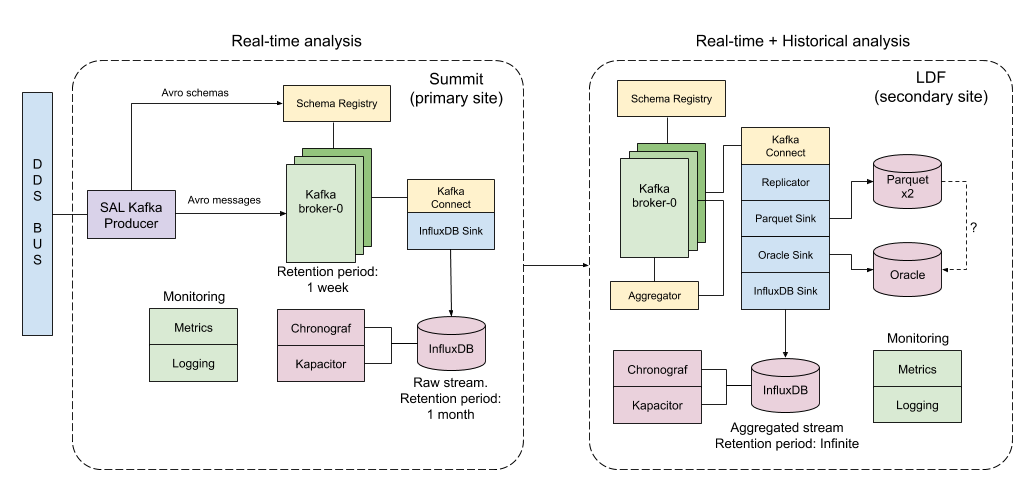
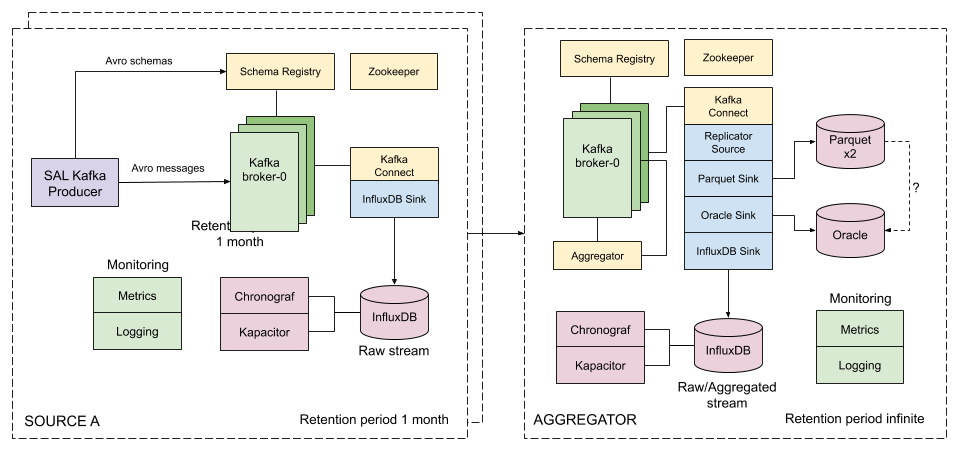
Add concept of source and aggregator EFDs
- New section on how to configure the replicator source connector

diff --git a/index.rst b/index.rst
@@ -48,45 +48,46 @@
 
    **This technote is not yet published.**
 
-   Describe the EFD data flow, retention policies, etc
+   Describe the EFD architecture, data replication, retention policies, etc
 
 Introduction
 ============
 :dmtn:`082` :cite:`DMTN-082` presents a proposal to enable real-time analysis of the EFD data in the LSST Science Platform (LSP). :sqr:`029` :cite:`SQR-029` describes a prototype implementation of the EFD based on the `Confluent Kafka Platform`_  and the `InfluxData stack`_ and reports results of live tests with the LSST T&S `Service Abstraction Layer`_ (SAL) including latency characterization and performance evaluation with high-frequency telemetry. :sqr:`031` :cite:`SQR-031` describes the EFD Kubernetes-based deployment using Kubes (k3s), a lightweight Kubernetes, that allowed us to exercise the deployment and operation of the EFD at the Auxiliary Telescope (AT) test stand in Tucson and at the Summit in Chile while we implement the final on-premise deployment platform.
 
-In this technote, we describe new components added to the EFD architecture, data replication from the Summit to the LSST Data Facility (LDF), data storage options for long-term analyses of the EFD data in the LSP, and the EFD data retention policy.
+In this technote, we describe new components added to the EFD architecture. In particular, the concept of source EFD for instances deployed at the Summit and Test stands that collect data from the hardware, and aggregator EFD that aggregate data from the source EFDs and is deployed at the LDF. The aggregator is meant to be a single place where scientists connect to perform their analysis. We also discuss data replication from the source EFD to the aggregator EFD, retention policies, and data storage options for long-term analyses.
 
 
 .. figure:: /_static/efd_architecture.png
-   :name: EFD architecture with data replication from the Summit to the LDF
+   :name: Architecture for the source and aggregator EFDs.
    :target: _static/efd_architecture.png
 
-   EFD components at the Summit and LDF.
-
+   Architecture for the source and aggregator EFDs.
 
 The SAL Kafka producer
 ======================
 
-The `SAL Kafka`_ producer runs at the Summit and forward DDS messages from one or more SAL components to the Kafka brokers.  For each DDS topic, SAL Kafka introspects the OpenSplice IDL, creates the Avro schema and upload it to the Kafka Schema registry dynamically. The Kafka brokers cache the Avro serialized messages, and consumers use the Avro schemas created by SAL Kafka to deserialize the messages and write them to the different destinations.
+The `SAL Kafka`_ producer runs only on source EFDs (Summit and test stands) and forward DDS messages from one or more SAL components to Kafka.  For each DDS topic, SAL Kafka introspects the OpenSplice IDL, creates the Avro schema and uploads it to the source Schema registry dynamically. The Kafka brokers cache the Avro serialized messages, and consumers use the Avro schemas created by SAL Kafka to deserialize them.
 
-SAL Kafka was an important addition to the EFD architecture, it decoupled the EFD from the SAL XML schemas and introduced Avro as the interface between the DDS middleware and Kafka.
+SAL Kafka was an important addition to the EFD architecture, it decouples the EFD from the SAL XML schemas and introduces Avro as the interface between the DDS middleware and Kafka.
 
 The Kafka Connect manager
 =========================
 
-Another addition to the EFD architecture was the `Kafka Connect manager`_. The Kafka Connect manager is the component responsible for managing the Kafka Connect REST interface. It is used to deploy the different connectors in the EFD and can automatically update the connector configuration when new topics are created in the Kafka broker.
+Another addition to the EFD architecture is the `Kafka Connect manager`_. The Kafka Connect manager is the component responsible for managing the Kafka Connect REST interface. It is used to deploy the different connectors to the EFD. For connectors that are not dynamic like the InfluxDB Sink and the JDBc Sink connectors, the Kafka Connect manager can automatically update the connector configuration when new topics are created in Kafka.
 
 
 Data replication and fault tolerance
 ====================================
 
-The EFD uses Kafka to replicate data from the Summit (primary site) to the LDF (secondary site). The `Confluent Replicator`_ connector is the component responsible for that. In the EFD setup, the Replicator connector runs in one direction copying data from the primary site to the secondary site.
+The EFD uses Kafka to replicate data from the source EFDs (primary sites) to the aggregator EFD (secondary site). The `Kafka Connect Replicator source connector`_ is the component responsible for that. In the EFD setup, the Replicator source connector runs in one direction pulling topics from the primary sites to the secondary site.
 
-New topics in the Kafka brokers at the Summit are automatically detected and replicated to the Kafka brokers at the LDF. As throughput increases, the Replicator automatically scales to accommodate the increased load. The Replicator also synchronizes the Schema registry across the two sites, which further protects the EFD against data loss.
+New topics and schemas in the source EFDs are automatically detected and replicated to aggregator EFD. As throughput increases, the Replicator automatically scales to accommodate the increased load. By replicating topics and schemas across primary and secondary sites further protects the EFD against data loss.
 
-Note that in the present setup we have an InfluxDB consumer that reads data from the Kafka cluster at the primary site, and the Aggregator, InfluxDB, Oracle and Parquet consumers that read data from the Kafka cluster at the secondary site. Within the Kafka cluster we have fault tolerance by replicating the Kafka topics across the brokers. That's done by SAL Kafka producer creating topics with a replication factor of 3 by default. If one of the InfluxDB instances die, we still can connect to the other InfluxDB instance for real-time analysis of the EFD data. However, note that there's no failover mechanism for a consumer in the primary (secondary) site to read data from the secondary (primary) site. Similarly, the SAL Kafka producer writes data to just the primary site.
+In the present setup, consumers at the source EFD only read data from the source EFD and consumers at the aggregator EFD only read data from the aggregator EFD with the exception of the Replicator consumer.  Within the Kafka cluster we have fault tolerance by replicating the Kafka topics across three brokers (default set up). That's done by the SAL Kafka producer creating topics with a replication factor of three.
 
-In summary, the data replication enables long-term storage of the EFD data at the LDF and also provides a live backup of the EFD data in the Summit instance (see :ref:`retention-policy`).
+If the InfluxDB instance in one of the primary sites die, the InfluxDB instance on the secondary site can be used to access the data. However, there's no failover mechanism that automatically connects a consumer to the secondary site.
+
+In summary, the aggregator EFD provides long-term storage and a live backup of the EFD data (see :ref:`retention-policy`).
 
 
 .. _retention-policy:
@@ -94,11 +95,11 @@ In summary, the data replication enables long-term storage of the EFD data at th
 Downsampling and data retention
 ===============================
 
-The EFD writes thousands of topics with frequencies ranging from 1Hz to 100Hz. Querying the raw EFD data on large time windows can be quite painful, especially at the Summit with limited computing resources.
+The EFD writes thousands of topics with frequencies ranging from 1Hz to 100Hz. Querying the raw EFD data on large time windows can be quite painful, especially at the primary sites with limited computing resources.
 
-A natural solution is to downsample the raw data and store one or two versions of low-resolution data for extended periods. In InfluxDB, it is possible to configure multiple retention policies. For instance, at the Summit we can have 1 week of raw data, 1 month of an intermediate resolution version, and 1 year of a low resolution version. The retention policy is such that data older than the retention period is automatically deleted. The result is a moving time window on the most recent data in each case. Downsampling is efficiently done inside InfluxDB using Flux tasks that can be scheduled during daytime.  Similar retention policies at the LDF can be configure so that we can query the data efficiently over extended periods in InlfuxDB.
+A natural solution is to downsample the raw data and store one or two versions of low-resolution data for extended periods. In InfluxDB, it is possible to configure multiple retention policies. For instance, at the primary sites we can have 1 week of raw data, 1 month of an intermediate resolution version of the data, and 1 year of a low resolution version of the data. The retention policy is such that data older than the retention period is automatically deleted. The result is a moving time window on the most recent data in each case. Downsampling is efficiently done inside InfluxDB using Flux tasks that can be scheduled during daytime if necessary.  Similar retention policies at the LDF can be configure so that we can query the data efficiently over extended periods.
 
-Real-time analysis of the EFD data might include statistical models for anomaly detection and forecasting. For example, InfluxDB implements a `built-in multiplicative Holt-Winter's <https://www.influxdata.com/blog/how-to-use-influxdbs-holt-winters-function-for-predictions/>`_ function to generate predictions on time series data. At the Summit, if we store 1 month of raw EFD data, that's roughly 1% of the data collected over the 10-years survey. If that's sufficient to build a statistical model or not depends on the long term trends and seasonality of the time-series we are analyzing. An interesting possibility of the present EFD architecture is to build the statistical models at the LDF where we have the raw data stored for longer periods and apply the models at the Summit when configuring alerts.
+Real-time analysis of the EFD data might include statistical models for anomaly detection and forecasting. For example, InfluxDB implements a `built-in multiplicative Holt-Winter's <https://www.influxdata.com/blog/how-to-use-influxdbs-holt-winters-function-for-predictions/>`_ function to generate predictions on time series data. At the Summit, if we store 1 week of raw EFD data, that's roughly 0.2% of the data collected over the 10-years survey. If that's sufficient to build a statistical model or not depends on the long term trends and seasonality of the time-series we are analyzing. An interesting possibility of the present EFD architecture is to build the statistical models at the aggregator EFD where we have the raw data stored for longer periods and apply the models at the primary sites when configuring alerts.
 
 .. _aggregator:
 
@@ -109,9 +110,9 @@ As proposed in :dmtn:`082` :cite:`DMTN-082`, the LSP users are generally interes
 
 In addition, the aggregator should resample the telemetry topics in a regular time grid to make it easier to correlate them.
 
-The aggregator stream-processor produces a new set of aggregated telemetry topics in Kafka that can be consumed and stored in Parquet, Oracle and InfluxDB. That gives the user multiple options to combine the aggregated telemetry with the exposure table which resides primarily in the Oracle database:
+The aggregator stream-processor produces a new set of aggregated telemetry topics in Kafka that can be consumed and stored in Parquet, Oracle and InfluxDB. That gives the user multiple options to combine the aggregated telemetry with the exposure table which resides in the Oracle database:
 
-* inside the LSP notebook environment using Pandas dataframes after querying the exposure table and reading the telemetry data from one of the sources above;
+* inside the LSP notebook environment using Pandas data-frames after querying the exposure table and reading the telemetry data from one of the sources above;
 
 * inside the Oracle database joining the exposure and the telemetry tables using SQL;
 
@@ -125,11 +126,11 @@ An interesting option for implementing the Aggregator is `Faust`_, a Python asyn
 Options for long-term storage at the LDF
 ========================================
 
-The LSP benefits from accessing data stored in Parquet format, which is compatible with  `Dask`_ used to scale computations across multiple machines. The Confluent Kafka connect storage-cloud connector recently added `support to Parquet on S3 <https://github.com/confluentinc/kafka-connect-storage-cloud/pull/241>`_. From the connector configuration, it is also possible to partition data based on time. We might want to store both the raw EFD data and the aggregated EFD data in Parquet files, which also serves as a cold backup of the EFD data.
+The LSP benefits from accessing data stored in Parquet format, which is compatible with  `Dask`_ used to scale computations across multiple worker nodes. The Confluent Kafka connect storage-cloud connector recently added `support to Parquet on S3 <https://github.com/confluentinc/kafka-connect-storage-cloud/pull/241>`_. From the connector configuration, it is also possible to partition data based on time. We might want to store both the raw EFD data and the aggregated EFD data in Parquet files, which also serves as a cold backup of the EFD data.
 
-We plan on storing the aggregated EFD data in Oracle, which is convenient to make joins with the exposure table as discussed in the :ref:`aggregator` session. The `Kafka Connect JDBC Connector`_ supports Oracle databases through the JDBC driver for Oracle. The JDBC Sink connector automatically creates the destination tables if the ``auto.create`` configuration option is enabled, and can also `perform limited auto-evolution <https://docs.confluent.io/current/connect/kafka-connect-jdbc/sink-connector/index.html#auto-creation-and-auto-evoluton>`_ on the destination tables if the ``auto.evolve`` configuration option is enabled.  An alternative, is to load data to the Oracle database from Parquet files in batch, but then we lose the convenience of creating and evolving the database schema offered by JDBC Sink connector.
+We plan on storing the aggregated EFD data in Oracle, which is convenient to make joins with the exposure table as discussed in the :ref:`aggregator` session. The `Kafka Connect JDBC connector`_ supports Oracle databases through the JDBC driver for Oracle. The JDBC Sink connector automatically creates the destination tables if the ``auto.create`` configuration option is enabled, and can also `perform limited auto-evolution <https://docs.confluent.io/current/connect/kafka-connect-jdbc/sink-connector/index.html#auto-creation-and-auto-evoluton>`_ on the destination tables if the ``auto.evolve`` configuration option is enabled.  An alternative, is to load data to the Oracle database from Parquet files in batch, but then we lose the convenience of creating and evolving the database schema offered by JDBC Sink connector.
 
-For the InfluxDB at the LDF, we can store the raw data for more extended periods than in the Summit. We might consider the InfluxDB enterprise to build an InfluxDB cluster or pay for InfluxDB Cloud. Alternatively, we can have multiple retention policies in InfluxDB and store low-resolution versions of the data for extended periods as discussed in the :ref:`retention-policy` session.
+We can store the raw data for more extended periods in the aggregator EFD than in the source EFDs. We might consider InfluxDB enterprise to build an InfluxDB cluster or even pay for InfluxDB Cloud. Alternatively, we can have multiple retention policies in InfluxDB and store low-resolution versions of the data for extended periods as discussed in the :ref:`retention-policy` session.
 
 
 Monitoring
@@ -138,13 +139,36 @@ Monitoring
 For monitoring the Kafka cluster, we use Prometheus deployed with the Confluent Kafka Helm charts, and eventually, the Confluent Kafka Control Center.  For InfluxDB, we collect system metrics from a different number of Telegraf plugins. We intend to ingest the EFD logs in the logging infrastructure at Summit and the LDF as well.
 
 
+
+
+Appendix A - Configuring the Kafka Connect Replicator source connector
+======================================================================
+
+We've added the `Kafka Connect Replicator source connector`_ version 5.3.1 to our `Kafka Connect container image <https://github.com/lsst-sqre/kafka-efd-demo/blob/master/k8s-cluster/cp-kafka-connect/Dockerfile>`_ and tested topic replication and schema migration.
+
+In this setup, the `topic replication <https://docs.confluent.io/current/multi-dc-replicator/index.html#multi-dc>`_ works in one direction. The Replicator source connector consumes topics from the source cluster and the Kafka Connect workers produce topics to the destination cluster. Replicated topics are namespaced to indicate their origin. For example, ``summit.{topic}`` indicates that the topic is replicated from the Summit EFD, etc.
+
+Schema migration follows the `continuous migration <https://docs.confluent.io/current/schema-registry/installation/migrate.html#schemaregistry-migrate>`_ model. The Replicator continuously copy schemas from the source cluster to the destination cluster Schema Registry, which is set to IMPORT mode. `Schema translation <https://docs.confluent.io/current/tutorials/examples/replicator-schema-translation/docs/index.html>`_ ensures that subjects are renamed  following the topic rename strategy when migrated to the destination Schema Registry.
+
+An example of configuration for the Replicator that includes topic and schema replication with schema translation can be found `here <https://github.com/lsst-sqre/kafka-efd-demo/blob/master/k8s-cluster/cp-kafka-connect/make_replicator_config.sh>`_.
+
+
+.. figure:: /_static/replicator_connector.png
+   :name: Set up for testing the replicator connector.
+   :target: _static/replicator_connector.png
+
+Note That Kafka Connect ``bootstrap.servers`` configuration must include the URL of the destination Kafka cluster and that the destination Schema Registry must be in IMPORT mode. To initialize the destination Schema Registry to IMPORT mode, first set ``mode.mutability=True`` in the configuration and make sure the destination Schema Registry is empty.
+
+Confluent's recommendation is to deploy the Replicator source connector at the destination cluster (remote consuming). However, in our current set up the Summit EFD and Tucson test stand EFD are behind the NOAO VPN. We successfuly deployed the Replicator source connector at the source clusters (remote producing). We have tested the later set up to replicate data from the Summit EFD and Tucson test stand EFD to our EFD instance running on Google Cloud.  Another good practice is to have a separate Kafka Connect deployment for the Replicator source connector, to isolate this connector from other connectors running in the cluster.
+
+
 References
 ==========
 
 .. Make in-text citations with: :cite:`bibkey`.
 
 .. bibliography:: local.bib lsstbib/books.bib lsstbib/lsst.bib lsstbib/lsst-dm.bib lsstbib/refs.bib lsstbib/refs_ads.bib
-   :style: lsst_aa
+  :style: lsst_aa
 
 
 .. _InfluxData: https://www.influxdata.com/
@@ -152,10 +176,10 @@ References
 .. _Service Abstraction Layer: https://docushare.lsstcorp.org/docushare/dsweb/Get/Document-21527
 .. _SAL Kafka: https://ts-salkafka.lsst.io/
 .. _Kafka Connect manager: https://kafka-connect-manager.lsst.io/
-.. _Confluent Replicator: https://docs.confluent.io/current/connect/kafka-connect-replicator/index.html
 .. _Faust: https://faust.readthedocs.io/en/latest/index.html
 .. _Dask: https://dask.org/
-.. _Kafka Connect JDBC Connector:
+.. _Kafka Connect JDBC connector: https://www.confluent.io/hub/confluentinc/kafka-connect-jdbc
+.. _Kafka Connect Replicator source connector: https://www.confluent.io/hub/confluentinc/kafka-connect-replicator
 .. _InfluxData stack: https://docs.influxdata.com/influxdb/v1.7/
 .. _Chronograf: https://docs.influxdata.com/chronograf/v1.7/
 .. _Kapacitor: https://docs.influxdata.com/kapacitor/v1.5/
